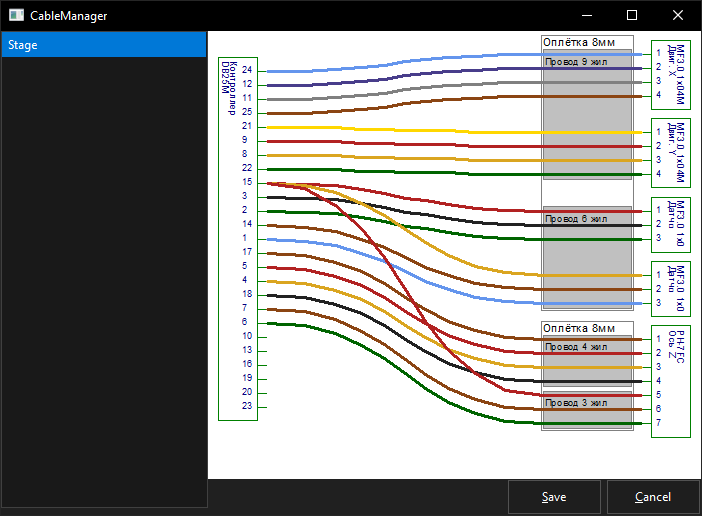
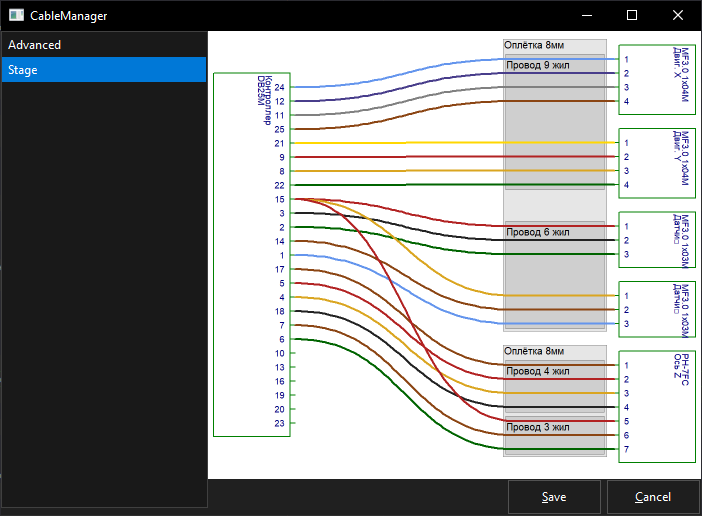
Fixed text position of cable name

Changed region(s): [[0.0, 0.062, 1.0, 0.8992]]

diff --git a/Cable.hpp b/Cable.hpp
@@ -94,7 +94,7 @@ public:
 			}
 			int right = iSize.cx - iSize.cx / 6 - 30;
 			int left = right - iSize.cx / 5;
-			Rect wiresRect = {left, top - 30, right, bottom + 10};
+			Rect wiresRect = {left, top - 10, right, bottom + 10};
 			if (coverRect.IsEmpty()) {
 				coverRect = wiresRect;
 			} else {
@@ -116,7 +116,7 @@ public:
 			Point(coverRect.right, coverRect.bottom),
 			Point(coverRect.left, coverRect.bottom),
 		}, color, 1, DarkColor(color));
-		imgDraw.DrawText(coverRect.left + 2, coverRect.top, name, Arial(20), Black);
+		imgDraw.DrawText(coverRect.left + 2, coverRect.top +  (cables.GetCount() ? 0 : 10), name, Arial(20), Black);
 		for (Cable* c : cables) {
 			c->DrawCovers(imgDraw, objImg, iSize);
 		}
